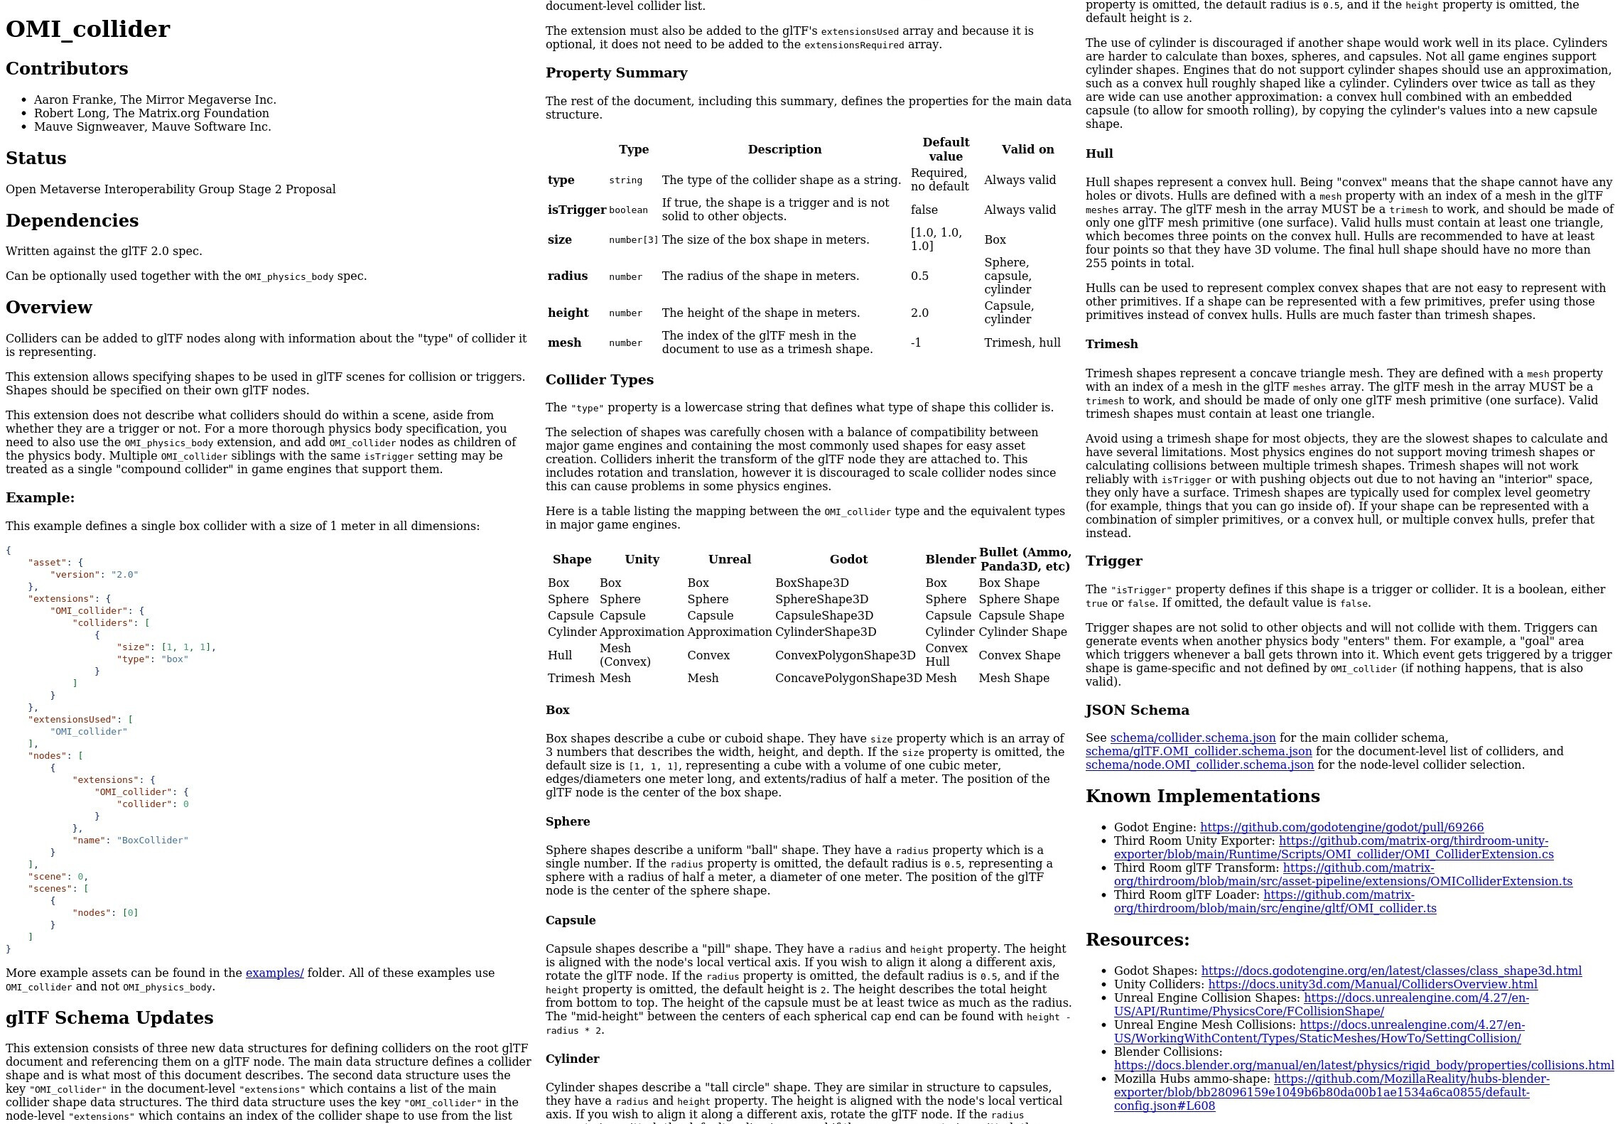
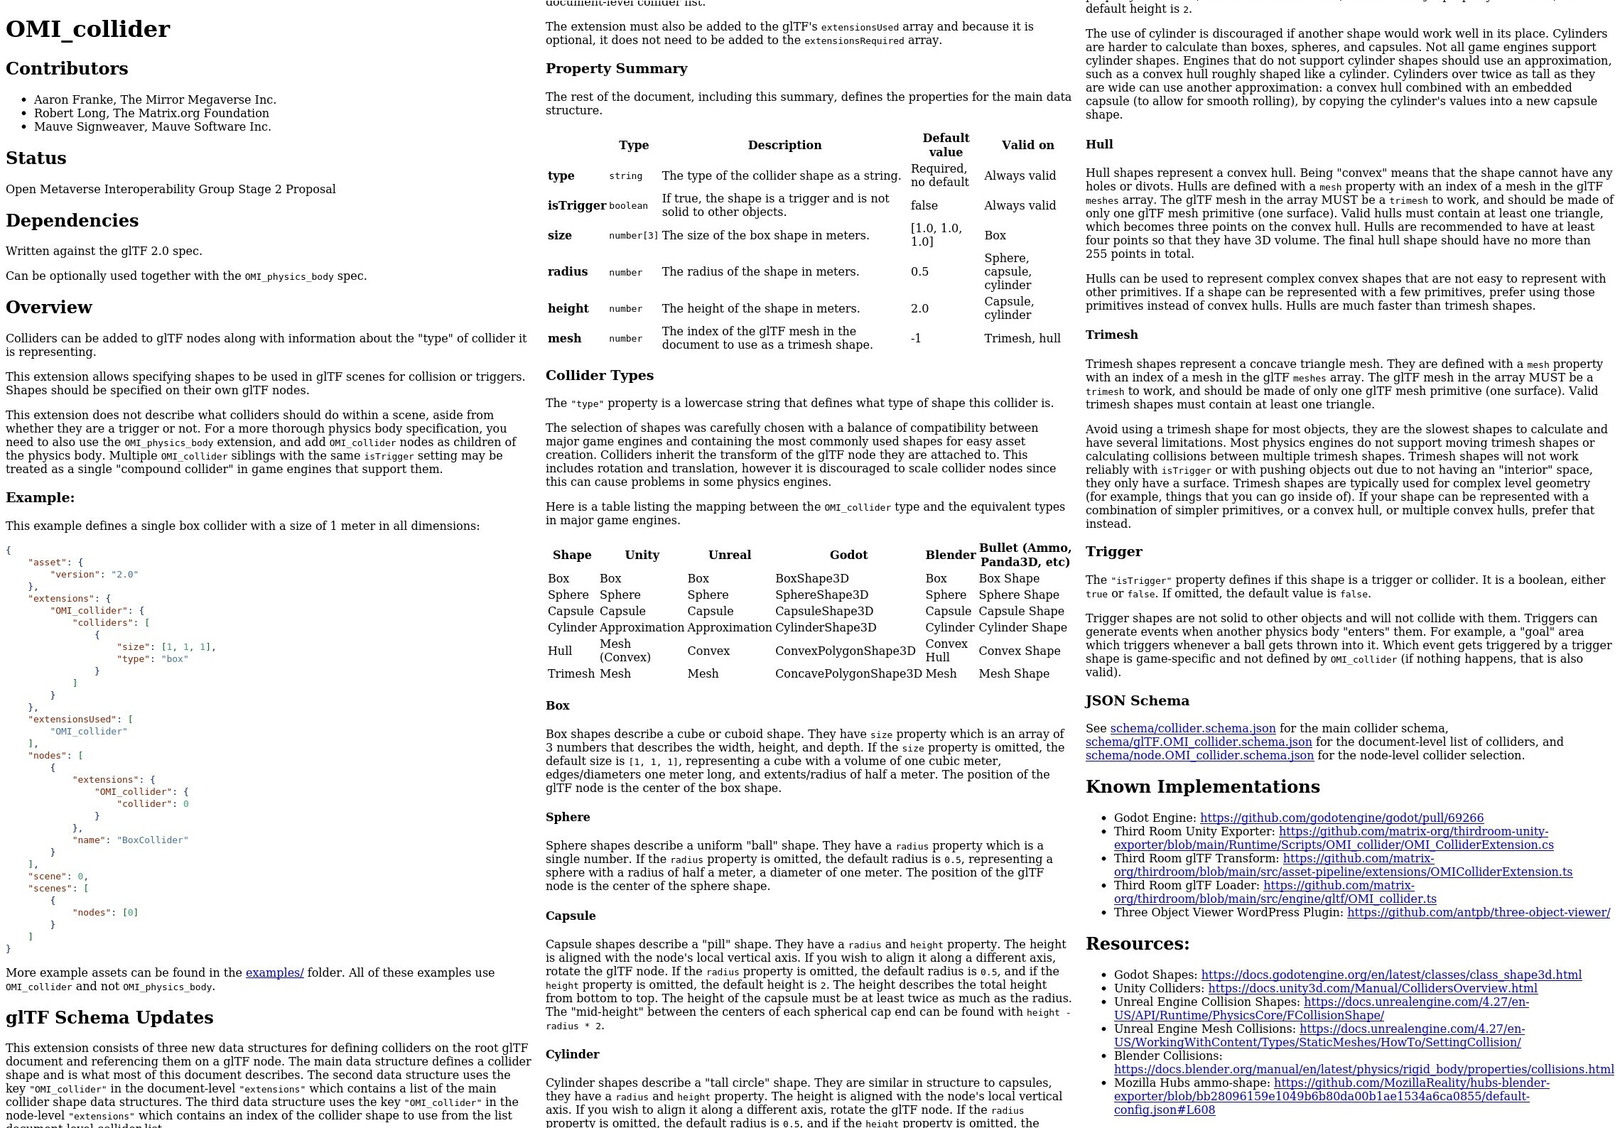
Update READMEs

diff --git a/extensions/2.0/OMI_personality/OMI_personality.html b/extensions/2.0/OMI_personality/OMI_personality.html
@@ -1,0 +1,205 @@
+<!DOCTYPE html>
+<html xmlns="http://www.w3.org/1999/xhtml" lang="" xml:lang="">
+<head>
+  <meta charset="utf-8" />
+  <meta name="generator" content="pandoc" />
+  <meta name="viewport" content="width=device-width, initial-scale=1.0, user-scalable=yes" />
+  <title>README</title>
+  <style>
+    code{white-space: pre-wrap;}
+    span.smallcaps{font-variant: small-caps;}
+    span.underline{text-decoration: underline;}
+    div.column{display: inline-block; vertical-align: top; width: 50%;}
+    div.hanging-indent{margin-left: 1.5em; text-indent: -1.5em;}
+    ul.task-list{list-style: none;}
+    pre > code.sourceCode { white-space: pre; position: relative; }
+    pre > code.sourceCode > span { display: inline-block; line-height: 1.25; }
+    pre > code.sourceCode > span:empty { height: 1.2em; }
+    code.sourceCode > span { color: inherit; text-decoration: inherit; }
+    div.sourceCode { margin: 1em 0; }
+    pre.sourceCode { margin: 0; }
+    @media screen {
+    div.sourceCode { overflow: auto; }
+    }
+    @media print {
+    pre > code.sourceCode { white-space: pre-wrap; }
+    pre > code.sourceCode > span { text-indent: -5em; padding-left: 5em; }
+    }
+    pre.numberSource code
+      { counter-reset: source-line 0; }
+    pre.numberSource code > span
+      { position: relative; left: -4em; counter-increment: source-line; }
+    pre.numberSource code > span > a:first-child::before
+      { content: counter(source-line);
+        position: relative; left: -1em; text-align: right; vertical-align: baseline;
+        border: none; display: inline-block;
+        -webkit-touch-callout: none; -webkit-user-select: none;
+        -khtml-user-select: none; -moz-user-select: none;
+        -ms-user-select: none; user-select: none;
+        padding: 0 4px; width: 4em;
+        color: #aaaaaa;
+      }
+    pre.numberSource { margin-left: 3em; border-left: 1px solid #aaaaaa;  padding-left: 4px; }
+    div.sourceCode
+      {   }
+    @media screen {
+    pre > code.sourceCode > span > a:first-child::before { text-decoration: underline; }
+    }
+    code span.al { color: #ff0000; font-weight: bold; } /* Alert */
+    code span.an { color: #60a0b0; font-weight: bold; font-style: italic; } /* Annotation */
+    code span.at { color: #7d9029; } /* Attribute */
+    code span.bn { color: #40a070; } /* BaseN */
+    code span.bu { } /* BuiltIn */
+    code span.cf { color: #007020; font-weight: bold; } /* ControlFlow */
+    code span.ch { color: #4070a0; } /* Char */
+    code span.cn { color: #880000; } /* Constant */
+    code span.co { color: #60a0b0; font-style: italic; } /* Comment */
+    code span.cv { color: #60a0b0; font-weight: bold; font-style: italic; } /* CommentVar */
+    code span.do { color: #ba2121; font-style: italic; } /* Documentation */
+    code span.dt { color: #902000; } /* DataType */
+    code span.dv { color: #40a070; } /* DecVal */
+    code span.er { color: #ff0000; font-weight: bold; } /* Error */
+    code span.ex { } /* Extension */
+    code span.fl { color: #40a070; } /* Float */
+    code span.fu { color: #06287e; } /* Function */
+    code span.im { } /* Import */
+    code span.in { color: #60a0b0; font-weight: bold; font-style: italic; } /* Information */
+    code span.kw { color: #007020; font-weight: bold; } /* Keyword */
+    code span.op { color: #666666; } /* Operator */
+    code span.ot { color: #007020; } /* Other */
+    code span.pp { color: #bc7a00; } /* Preprocessor */
+    code span.sc { color: #4070a0; } /* SpecialChar */
+    code span.ss { color: #bb6688; } /* SpecialString */
+    code span.st { color: #4070a0; } /* String */
+    code span.va { color: #19177c; } /* Variable */
+    code span.vs { color: #4070a0; } /* VerbatimString */
+    code span.wa { color: #60a0b0; font-weight: bold; font-style: italic; } /* Warning */
+  </style>
+  <link rel="stylesheet" href="../table2.css" />
+</head>
+<body>
+<h1 id="omi_personality">OMI_personality</h1>
+<h2 id="contributors">Contributors</h2>
+<p>Anthony Burchell, Individual Contributor</p>
+<h2 id="status">Status</h2>
+<p>Draft Specification</p>
+<p>Open Metaverse interoperability Group Stage 1 proposal</p>
+<h2 id="dependencies">Dependencies</h2>
+<p>Written against the glTF 2.0 spec.</p>
+<h2 id="overview">Overview</h2>
+<p>The OMI_personality extension allows you to specify a personality for a glTF node representing a entity. This extension can be used in virtual worlds, where characters can have unique personalities, and interactions with them can be enhanced by providing additional information about their behavior and dialogue.</p>
+<h2 id="example">Example</h2>
+<p>To use the "OMI_personality" extension, you must first specify it in the extensionsUsed property of your glTF file.</p>
+<div class="sourceCode" id="cb1"><pre class="sourceCode json"><code class="sourceCode json"><span id="cb1-1"><a href="#cb1-1" aria-hidden="true"></a><span class="fu">{</span></span>
+<span id="cb1-2"><a href="#cb1-2" aria-hidden="true"></a>    <span class="dt">&quot;extensionsUsed&quot;</span><span class="fu">:</span> <span class="ot">[</span><span class="st">&quot;OMI_personality&quot;</span><span class="ot">]</span></span>
+<span id="cb1-3"><a href="#cb1-3" aria-hidden="true"></a><span class="fu">}</span></span></code></pre></div>
+<p>Next, apply the extension to a child node of the glTF file. The node's position and rotation data can be used to determine the location of the spawn point in the scene.</p>
+<div class="sourceCode" id="cb2"><pre class="sourceCode json"><code class="sourceCode json"><span id="cb2-1"><a href="#cb2-1" aria-hidden="true"></a><span class="fu">{</span></span>
+<span id="cb2-2"><a href="#cb2-2" aria-hidden="true"></a>    <span class="dt">&quot;nodes&quot;</span><span class="fu">:</span> <span class="ot">[</span></span>
+<span id="cb2-3"><a href="#cb2-3" aria-hidden="true"></a>        <span class="fu">{</span></span>
+<span id="cb2-4"><a href="#cb2-4" aria-hidden="true"></a>            <span class="dt">&quot;name&quot;</span><span class="fu">:</span> <span class="st">&quot;cat&quot;</span><span class="fu">,</span></span>
+<span id="cb2-5"><a href="#cb2-5" aria-hidden="true"></a>            <span class="dt">&quot;extensions&quot;</span><span class="fu">:</span> <span class="fu">{</span></span>
+<span id="cb2-6"><a href="#cb2-6" aria-hidden="true"></a>                <span class="dt">&quot;OMI_personality&quot;</span><span class="fu">:</span> <span class="fu">{</span></span>
+<span id="cb2-7"><a href="#cb2-7" aria-hidden="true"></a>                    <span class="dt">&quot;agent&quot;</span><span class="fu">:</span> <span class="st">&quot;cat&quot;</span><span class="fu">,</span></span>
+<span id="cb2-8"><a href="#cb2-8" aria-hidden="true"></a>                    <span class="dt">&quot;personality&quot;</span><span class="fu">:</span> <span class="st">&quot;#agent has a cheerful personality.&quot;</span><span class="fu">,</span></span>
+<span id="cb2-9"><a href="#cb2-9" aria-hidden="true"></a>                    <span class="dt">&quot;defaultMessage&quot;</span><span class="fu">:</span> <span class="st">&quot;nya nya!&quot;</span></span>
+<span id="cb2-10"><a href="#cb2-10" aria-hidden="true"></a>                <span class="fu">}</span></span>
+<span id="cb2-11"><a href="#cb2-11" aria-hidden="true"></a>            <span class="fu">}</span></span>
+<span id="cb2-12"><a href="#cb2-12" aria-hidden="true"></a>        <span class="fu">}</span></span>
+<span id="cb2-13"><a href="#cb2-13" aria-hidden="true"></a>    <span class="ot">]</span></span>
+<span id="cb2-14"><a href="#cb2-14" aria-hidden="true"></a><span class="fu">}</span></span></code></pre></div>
+<p>In the example above, the "OMI_personality" extension is applied to a node named "cat". The agent property is used to specify the type of agent associated with the node, in this case, it's a cat. The personality property describes the agent's personality, and the defaultMessage property is the message that the agent will send as a default.</p>
+<h2 id="properties">Properties</h2>
+<p>The <code>defaultMessage</code> parameter is optional. The <code>agent</code> and <code>personality</code> options are required and provide context about the avatars name and default personality description.</p>
+<table>
+<thead>
+<tr class="header">
+<th></th>
+<th>Type</th>
+<th>Description</th>
+</tr>
+</thead>
+<tbody>
+<tr class="odd">
+<td><strong>agent</strong></td>
+<td><code>string</code></td>
+<td>The name of the agent or NPC.</td>
+</tr>
+<tr class="even">
+<td><strong>personality</strong></td>
+<td><code>string</code></td>
+<td>A default description of the personality of the agent allowing clients to inject that context into language model logic.</td>
+</tr>
+<tr class="odd">
+<td><strong>defaultMessage</strong></td>
+<td><code>string</code></td>
+<td>A default message for this agent to initialize with.</td>
+</tr>
+</tbody>
+</table>
+<h2 id="json-schema">JSON Schema</h2>
+<p>The OMI_personality extension is defined by the following JSON schema:</p>
+<div class="sourceCode" id="cb3"><pre class="sourceCode json"><code class="sourceCode json"><span id="cb3-1"><a href="#cb3-1" aria-hidden="true"></a><span class="fu">{</span></span>
+<span id="cb3-2"><a href="#cb3-2" aria-hidden="true"></a>    <span class="dt">&quot;$schema&quot;</span><span class="fu">:</span> <span class="st">&quot;http://json-schema.org/draft-07/schema#&quot;</span><span class="fu">,</span></span>
+<span id="cb3-3"><a href="#cb3-3" aria-hidden="true"></a>    <span class="dt">&quot;title&quot;</span><span class="fu">:</span> <span class="st">&quot;OMI_personality&quot;</span><span class="fu">,</span></span>
+<span id="cb3-4"><a href="#cb3-4" aria-hidden="true"></a>    <span class="dt">&quot;description&quot;</span><span class="fu">:</span> <span class="st">&quot;An extension for the glTF format that defines a personality for a node and an endpoint where additional information can be queried.&quot;</span><span class="fu">,</span></span>
+<span id="cb3-5"><a href="#cb3-5" aria-hidden="true"></a>    <span class="dt">&quot;type&quot;</span><span class="fu">:</span> <span class="st">&quot;object&quot;</span><span class="fu">,</span></span>
+<span id="cb3-6"><a href="#cb3-6" aria-hidden="true"></a>    <span class="dt">&quot;properties&quot;</span><span class="fu">:</span> <span class="fu">{</span></span>
+<span id="cb3-7"><a href="#cb3-7" aria-hidden="true"></a>        <span class="dt">&quot;agent&quot;</span><span class="fu">:</span> <span class="fu">{</span></span>
+<span id="cb3-8"><a href="#cb3-8" aria-hidden="true"></a>            <span class="dt">&quot;type&quot;</span><span class="fu">:</span> <span class="st">&quot;string&quot;</span><span class="fu">,</span></span>
+<span id="cb3-9"><a href="#cb3-9" aria-hidden="true"></a>            <span class="dt">&quot;description&quot;</span><span class="fu">:</span> <span class="st">&quot;The name of the agent associated with the node.&quot;</span><span class="fu">,</span></span>
+<span id="cb3-10"><a href="#cb3-10" aria-hidden="true"></a>            <span class="dt">&quot;maxLength&quot;</span><span class="fu">:</span> <span class="dv">128</span></span>
+<span id="cb3-11"><a href="#cb3-11" aria-hidden="true"></a>        <span class="fu">},</span></span>
+<span id="cb3-12"><a href="#cb3-12" aria-hidden="true"></a>        <span class="dt">&quot;personality&quot;</span><span class="fu">:</span> <span class="fu">{</span></span>
+<span id="cb3-13"><a href="#cb3-13" aria-hidden="true"></a>            <span class="dt">&quot;type&quot;</span><span class="fu">:</span> <span class="st">&quot;string&quot;</span><span class="fu">,</span></span>
+<span id="cb3-14"><a href="#cb3-14" aria-hidden="true"></a>            <span class="dt">&quot;description&quot;</span><span class="fu">:</span> <span class="st">&quot;A description of the agent&#39;s personality.&quot;</span></span>
+<span id="cb3-15"><a href="#cb3-15" aria-hidden="true"></a>        <span class="fu">},</span></span>
+<span id="cb3-16"><a href="#cb3-16" aria-hidden="true"></a>        <span class="dt">&quot;defaultMessage&quot;</span><span class="fu">:</span> <span class="fu">{</span></span>
+<span id="cb3-17"><a href="#cb3-17" aria-hidden="true"></a>            <span class="dt">&quot;type&quot;</span><span class="fu">:</span> <span class="st">&quot;string&quot;</span><span class="fu">,</span></span>
+<span id="cb3-18"><a href="#cb3-18" aria-hidden="true"></a>            <span class="dt">&quot;description&quot;</span><span class="fu">:</span> <span class="st">&quot;The default message that the agent will send on initialization.&quot;</span></span>
+<span id="cb3-19"><a href="#cb3-19" aria-hidden="true"></a>        <span class="fu">}</span></span>
+<span id="cb3-20"><a href="#cb3-20" aria-hidden="true"></a>    <span class="fu">},</span></span>
+<span id="cb3-21"><a href="#cb3-21" aria-hidden="true"></a>    <span class="dt">&quot;required&quot;</span><span class="fu">:</span> <span class="ot">[</span><span class="st">&quot;agent&quot;</span><span class="ot">,</span> <span class="st">&quot;personality&quot;</span><span class="ot">]</span></span>
+<span id="cb3-22"><a href="#cb3-22" aria-hidden="true"></a><span class="fu">}</span></span></code></pre></div>
+<h2 id="implementation-details">Implementation Details</h2>
+<p>The OMI_personality extension allows users to inject a unique personality into their virtual representations and adheres to a simple set of properties that aim to be compatible with lots of AI software to come. In the below example implementation, the data for personality is used to combine with the input from the user talking to the NPC. The final prompt is being sent to the OpenAI Davinci model to allow for completion of the agent's response.</p>
+<div class="sourceCode" id="cb4"><pre class="sourceCode js"><code class="sourceCode javascript"><span id="cb4-1"><a href="#cb4-1" aria-hidden="true"></a>    <span class="co">// Request coming from three.js frontend that is querying this endpoint making a call to the GPT-3 model. Contains the Personality data embeded in the NPC file.</span></span>
+<span id="cb4-2"><a href="#cb4-2" aria-hidden="true"></a>    <span class="kw">const</span> data <span class="op">=</span> <span class="cf">await</span> request<span class="op">.</span><span class="fu">json</span>()<span class="op">;</span></span>
+<span id="cb4-3"><a href="#cb4-3" aria-hidden="true"></a>    <span class="kw">let</span> prompt <span class="op">=</span> data<span class="op">.</span><span class="at">inputs</span><span class="op">.</span><span class="at">personality</span><span class="op">;</span></span>
+<span id="cb4-4"><a href="#cb4-4" aria-hidden="true"></a>    <span class="kw">let</span> prompt <span class="op">=</span> data<span class="op">.</span><span class="at">Input</span><span class="op">.</span><span class="at">personality</span><span class="op">;</span></span>
+<span id="cb4-5"><a href="#cb4-5" aria-hidden="true"></a></span>
+<span id="cb4-6"><a href="#cb4-6" aria-hidden="true"></a>    <span class="kw">let</span> finalPrompt <span class="op">=</span> prompt</span>
+<span id="cb4-7"><a href="#cb4-7" aria-hidden="true"></a>        <span class="op">.</span><span class="fu">replaceAll</span>(<span class="st">&#39;#speaker&#39;</span><span class="op">,</span> data<span class="op">.</span><span class="at">Input</span><span class="op">.</span><span class="at">Speaker</span>)</span>
+<span id="cb4-8"><a href="#cb4-8" aria-hidden="true"></a>        <span class="op">.</span><span class="fu">replaceAll</span>(<span class="st">&#39;#input&#39;</span><span class="op">,</span> data<span class="op">.</span><span class="at">Input</span><span class="op">.</span><span class="at">Input</span>)</span>
+<span id="cb4-9"><a href="#cb4-9" aria-hidden="true"></a>        <span class="op">.</span><span class="fu">replaceAll</span>(<span class="st">&#39;#agent&#39;</span><span class="op">,</span> data<span class="op">.</span><span class="at">Input</span><span class="op">.</span><span class="at">Agent</span>)</span>
+<span id="cb4-10"><a href="#cb4-10" aria-hidden="true"></a>        <span class="op">.</span><span class="fu">replaceAll</span>(<span class="st">&#39;#conversation&#39;</span><span class="op">,</span> data<span class="op">.</span><span class="at">Input</span><span class="op">.</span><span class="at">Conversation</span>)</span>
+<span id="cb4-11"><a href="#cb4-11" aria-hidden="true"></a>        <span class="op">.</span><span class="fu">replaceAll</span>(<span class="st">&#39;undefined</span><span class="sc">\n</span><span class="st">&#39;</span><span class="op">,</span><span class="st">&#39;&#39;</span> )<span class="op">.</span><span class="fu">replaceAll</span>(<span class="st">&#39;undefined&#39;</span><span class="op">,</span><span class="st">&#39;&#39;</span>)</span>
+<span id="cb4-12"><a href="#cb4-12" aria-hidden="true"></a>        <span class="op">.</span><span class="fu">slice</span>(<span class="op">-</span><span class="dv">5000</span>)</span>
+<span id="cb4-13"><a href="#cb4-13" aria-hidden="true"></a></span>
+<span id="cb4-14"><a href="#cb4-14" aria-hidden="true"></a>    <span class="kw">const</span> token <span class="op">=</span> authorization<span class="op">.</span><span class="fu">split</span>(<span class="st">&#39; &#39;</span>)[<span class="dv">1</span>]<span class="op">;</span></span>
+<span id="cb4-15"><a href="#cb4-15" aria-hidden="true"></a>    <span class="kw">const</span> postData <span class="op">=</span> {</span>
+<span id="cb4-16"><a href="#cb4-16" aria-hidden="true"></a>        <span class="dt">prompt</span><span class="op">:</span> finalPrompt <span class="op">,</span></span>
+<span id="cb4-17"><a href="#cb4-17" aria-hidden="true"></a>        <span class="dt">max_tokens</span><span class="op">:</span> <span class="dv">500</span><span class="op">,</span></span>
+<span id="cb4-18"><a href="#cb4-18" aria-hidden="true"></a>        <span class="dt">stop</span> <span class="op">:</span> [<span class="st">&quot;###&quot;</span>]<span class="op">,</span></span>
+<span id="cb4-19"><a href="#cb4-19" aria-hidden="true"></a>        <span class="dt">temperature</span><span class="op">:</span> <span class="fl">0.7</span><span class="op">,</span></span>
+<span id="cb4-20"><a href="#cb4-20" aria-hidden="true"></a>    }<span class="op">;</span></span>
+<span id="cb4-21"><a href="#cb4-21" aria-hidden="true"></a></span>
+<span id="cb4-22"><a href="#cb4-22" aria-hidden="true"></a>    <span class="co">// Make the first request to the Davinci model</span></span>
+<span id="cb4-23"><a href="#cb4-23" aria-hidden="true"></a>    <span class="kw">const</span> davinciResponse <span class="op">=</span> <span class="cf">await</span> <span class="fu">fetch</span>(<span class="st">&#39;https://api.openai.com/v1/engines/text-davinci-003/completions&#39;</span><span class="op">,</span> {</span>
+<span id="cb4-24"><a href="#cb4-24" aria-hidden="true"></a>        <span class="dt">method</span><span class="op">:</span> <span class="st">&#39;POST&#39;</span><span class="op">,</span></span>
+<span id="cb4-25"><a href="#cb4-25" aria-hidden="true"></a>        <span class="dt">headers</span><span class="op">:</span> {</span>
+<span id="cb4-26"><a href="#cb4-26" aria-hidden="true"></a>            <span class="st">&#39;Content-Type&#39;</span><span class="op">:</span> <span class="st">&#39;application/json&#39;</span><span class="op">,</span></span>
+<span id="cb4-27"><a href="#cb4-27" aria-hidden="true"></a>            <span class="st">&#39;Authorization&#39;</span><span class="op">:</span> <span class="vs">`Bearer </span><span class="sc">${</span>token<span class="sc">}</span><span class="vs">`</span></span>
+<span id="cb4-28"><a href="#cb4-28" aria-hidden="true"></a>        }<span class="op">,</span></span>
+<span id="cb4-29"><a href="#cb4-29" aria-hidden="true"></a>        <span class="dt">body</span><span class="op">:</span> <span class="bu">JSON</span><span class="op">.</span><span class="fu">stringify</span>(postData)</span>
+<span id="cb4-30"><a href="#cb4-30" aria-hidden="true"></a>    })<span class="op">;</span></span>
+<span id="cb4-31"><a href="#cb4-31" aria-hidden="true"></a></span></code></pre></div>
+<p>The final prompt in this examples follows a structure of:</p>
+<pre><code>Agent is cheerful and always willing to help with programming tasks. They are an entity that lives in a virtual world always looking for new and intersting ways to help humans create content in the metaverse. 
+Speaker: Hello agent! Tell me about yourself
+Agent: 
+</code></pre>
+<p>The above example is a final prompt that is sent to OpenAI where the model completes what the "Agent:" would write to complete this conversation factoring in the personality data above the chat log.</p>
+<p>In this example, the text is being passed back to the Three.js scene and rendered in the scene using a Text component.</p>
+</body>
+</html>

diff --git a/extensions/2.0/OMI_collider/OMI_collider.html b/extensions/2.0/OMI_collider/OMI_collider.html
@@ -283,6 +283,7 @@
 <li>Third Room Unity Exporter: <a href="https://github.com/matrix-org/thirdroom-unity-exporter/blob/main/Runtime/Scripts/OMI_collider/OMI_ColliderExtension.cs">https://github.com/matrix-org/thirdroom-unity-exporter/blob/main/Runtime/Scripts/OMI_collider/OMI_ColliderExtension.cs</a></li>
 <li>Third Room glTF Transform: <a href="https://github.com/matrix-org/thirdroom/blob/main/src/asset-pipeline/extensions/OMIColliderExtension.ts">https://github.com/matrix-org/thirdroom/blob/main/src/asset-pipeline/extensions/OMIColliderExtension.ts</a></li>
 <li>Third Room glTF Loader: <a href="https://github.com/matrix-org/thirdroom/blob/main/src/engine/gltf/OMI_collider.ts">https://github.com/matrix-org/thirdroom/blob/main/src/engine/gltf/OMI_collider.ts</a></li>
+<li>Three Object Viewer WordPress Plugin: <a href="https://github.com/antpb/three-object-viewer/">https://github.com/antpb/three-object-viewer/</a></li>
 </ul>
 <h2 id="resources">Resources:</h2>
 <ul>

diff --git a/extensions/2.0/OMI_seat/OMI_seat.html b/extensions/2.0/OMI_seat/OMI_seat.html
@@ -84,7 +84,7 @@
 <li>Aaron Franke, The Mirror Megaverse Inc.</li>
 </ul>
 <h2 id="status">Status</h2>
-<p>Open Metaverse Interoperability Group Stage 1 Proposal</p>
+<p>Open Metaverse Interoperability Group Stage 2 Proposal</p>
 <h2 id="dependencies">Dependencies</h2>
 <p>Written against the glTF 2.0 spec.</p>
 <p>Optionally depends on the <code>OMI_collider</code> and <code>OMI_physics_body</code> specs for triggers.</p>

diff --git a/extensions/2.0/OMI_physics_body/OMI_physics_body.html b/extensions/2.0/OMI_physics_body/OMI_physics_body.html
@@ -85,7 +85,7 @@
 <li>Mauve Signweaver, Mauve Software Inc.</li>
 </ul>
 <h2 id="status">Status</h2>
-<p>Open Metaverse Interoperability Group Stage 1 Proposal</p>
+<p>Open Metaverse Interoperability Group Stage 2 Proposal</p>
 <h2 id="dependencies">Dependencies</h2>
 <p>Written against the glTF 2.0 spec.</p>
 <p>Depends on the <code>OMI_collider</code> spec to be useful.</p>
